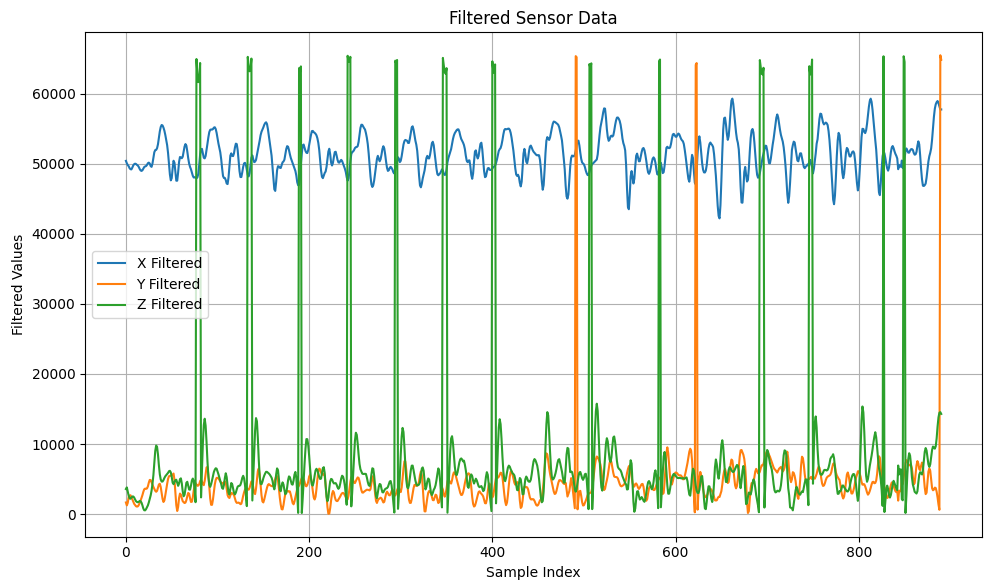
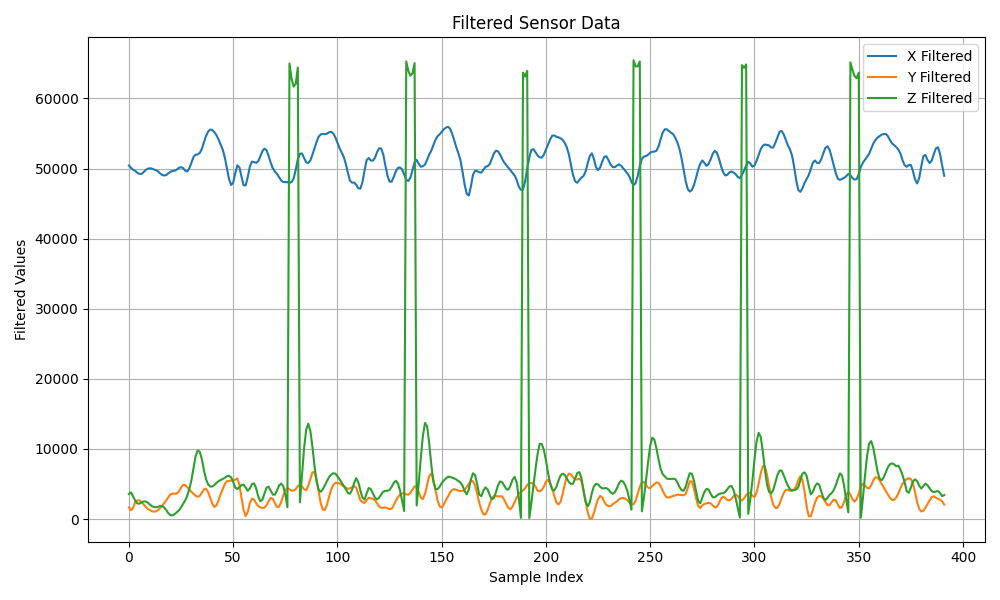
Reworked graph and finishing off

Changed region(s): [[0.0, 0.0, 1.0, 0.9796]]

diff --git a/README.md b/README.md
@@ -60,15 +60,14 @@ Once the IMU data has been read it is passed through a filtering process to redu
 
 ![Filtered Sensor Data](./Documentation%20Images/filtered_sensor.png)
 
-To determine when a step occurs, we calculate the acceleration magnitude using the filtered X, Y, and Z axis values. This provides a measure of motion intensity that is independent from direction, which is particularly useful for detecting steps in any orientation. To improve reliability, we implemented a hysteresis approach with clearly defined upper and lower bounds. The upper threshold is chosen to capture the distinct spike in acceleration caused by a step, while the lower threshold ensures that small fluctuations or noise do not repeatedly trigger step events. This separation prevents rapid toggling and stabilises step detection. In addition to hysteresis, we also introduced a level-surface rejection mechanism by monitoring the Z-axis acceleration. If the Z-axis reading remains within a narrow range around 1G—the expected acceleration when stationary on a flat surface—then step detection is suppressed. This helps avoid false positives when the device is idle but still subject to minor vibrations or tilt. So that only deliberate movement is detected.
+To determine when a step occurs, we calculate the acceleration magnitude using the filtered X, Y, and Z axis values. This provides a measure of motion intensity that is independent of direction, which is particularly useful for detecting steps in any orientation. To improve reliability, we implemented a hysteresis approach with an upper and lower bound. The upper threshold is chosen to capture the distinct spike in acceleration caused by a step. In contrast, the lower threshold ensures that small fluctuations or noise do not repeatedly trigger step events. It does this by debouncing the motion so that once the upper bounds have been exceeded, it won't count another step until the acceleration is below the lower threshold. This separation prevents rapid toggling and stabilises step detection. In addition to hysteresis, we introduced a level-surface rejection mechanism by monitoring the Z-axis acceleration. If the Z-axis reading remains within a narrow range around 1G, then step detection is suppressed. This helps avoid false positives when the device is idle but still subject to minor vibrations or tilt. So that only deliberate movement is detected.
 
 ![Magnitude Data](./Documentation%20Images/mag_sensor.png)
 
 ### Scheduler Description
-Our design is fundamentally interrupt-driven, built around the use of the HAL_GetTick() function. Which is updated via the SysTick timer interrupt at a 1 kHz frequency. This tick-based mechanism allows us to implement a cooperative task scheduler that executes tasks at precise intervals without relying on blocking delays. Each task in the system is associated with a specific frequency that is converted to tick periods. In the main loop, the current tick count is compared against the scheduled run times of each task, and when a task is due, it is executed and its next run time is updated. This structure ensures time-sensitive tasks are serviced regularly while less critical tasks run at lower frequencies to conserve CPU resources. Because all timing is driven by the SysTick interrupt, we achieve consistent scheduling with minimal jitter. Additonally, it makes our task management remains easy to modify or add new modules.
+Our design is fundamentally interrupt-driven, built around the use of the HAL_GetTick() function. This is updated via the SysTick timer interrupt at a 1 kHz frequency. This tick-based mechanism allows us to implement a cooperative task scheduler that executes tasks at precise intervals without relying on blocking delays. Each task in the system is associated with a specific frequency that is converted to tick periods. In the main loop, the current tick count is compared against the scheduled run times of each task, and when a task is due, it is executed and its next run time is updated. This structure ensures time-sensitive tasks are serviced regularly while less critical tasks run at lower frequencies to conserve CPU resources. Because all timing is driven by the SysTick interrupt, we achieve consistent scheduling with minimal jitter. Additionally, it makes our task management easy to modify or add new modules.
 
 ### Scheduler Timing
-Task schedule diagram. Justification of each refresh rate. Address the problem of having back-to-back tasks, comment on why it won't impact performance here.
 
 ![Task Schedule Diagram](./Documentation%20Images/task_schedule.png)
 
@@ -95,9 +94,8 @@ Task schedule diagram. Justification of each refresh rate. Address the problem o
 - **IMU Task (50 Hz):**  
   Provides high enough frequency to accurately detect steps and motion while avoiding unnecessary CPU usage.
 
-A potential issue with this scheduling is back-to-back task execution where multiple tasks may become ready to execute in the same tick... Idk why it wont affect preformance :|
+A potential issue with this scheduling is back-to-back task execution, where multiple tasks may become ready to execute in the same tick. However, this is not an issue in our design. As all tasks are non-blocking. They typically just poll hardware registers or perform lightweight calculations, so their collective runtime remains within the 1 ms tick interval. 
+Additionally, tasks are designed to avoid contention for shared resources. Like how the joystick task and ADC task are deliberately offset from other tasks to allow any ADC settling time to complete. This careful management of both timing and execution length ensures that even when tasks line up in the same tick, system performance is not impacted.
 
 ## Conclusion
-What we learnt, what went well, problems we faced, things to improve on in the future.
-
-Man idk the ENCE361-25S1 - Embedded Systems 1 grade was the friends we made along the way.
+This project demonstrated the value of modular design, task separation, and scheduling in embedded systems. By isolating functionality and reducing dependencies, we created a flexible codebase that is easy to modify. The system had responsive user input and accurate step detection through the use of filtering and correct calibration. However, in the future, edge cases should be tested more thoroughly for more robust behaviour. Overall, while some testing remained, the architecture provides a solid foundation for future additions or reuse in similar projects.
